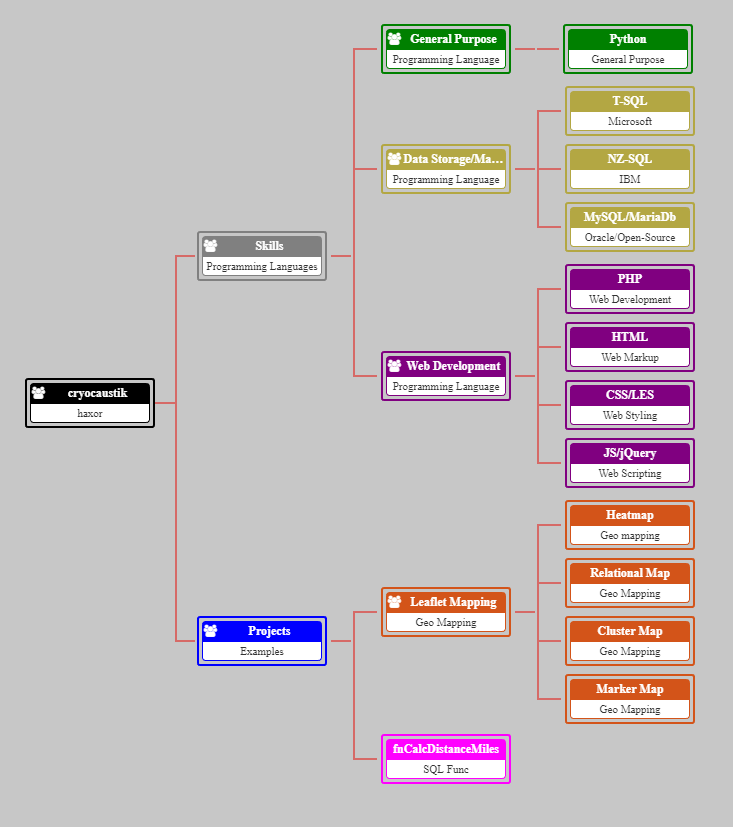
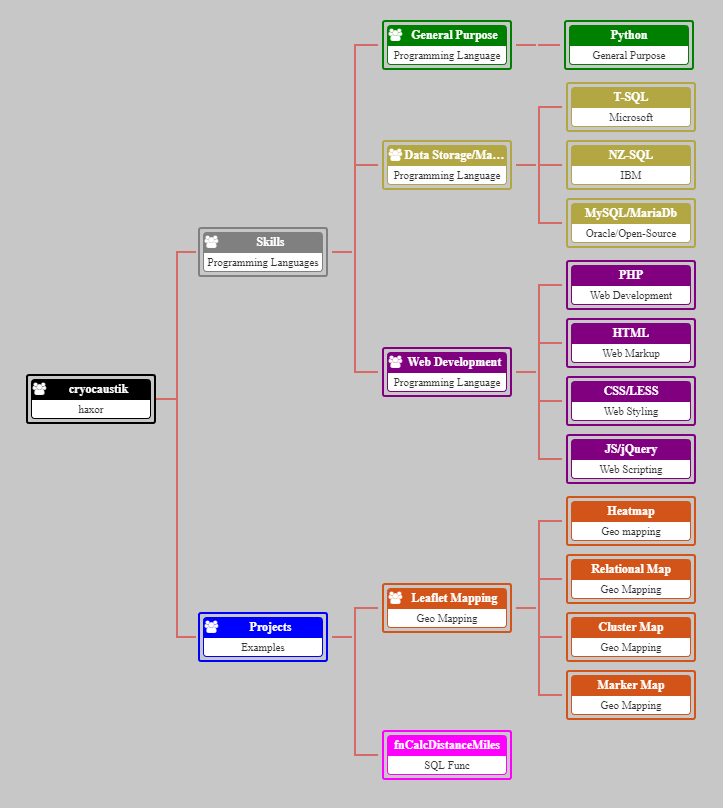
added interactive demo and updated sample img

Changed region(s): [[0.4869, 0.0, 0.9737, 0.8973], [0.0304, 0.2785, 0.4869, 0.8354], [0.4869, 0.8663, 0.7303, 0.9592]]

diff --git a/README.md b/README.md
@@ -9,8 +9,12 @@ An interactive html organization chart that can use external data to load and pl
 - [LESS - CSS Preprocessor that simplifies child styling](http://lesscss.org)
 
 
-## Example
+## Interactive Demo
+[Live Demo (rawgit)](https://cdn.rawgit.com/cryocaustik/OrgChart/master/index.html)
+
+## Examples
 ![char_example_image](./images/chart_example.png)
+
 
 ## Code examples
 ### html place holder
